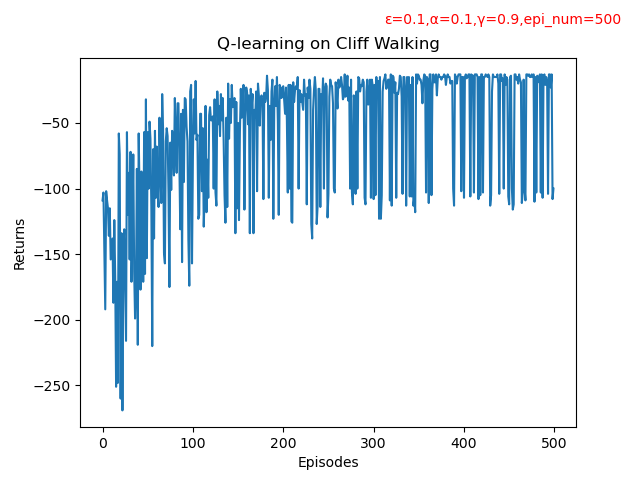
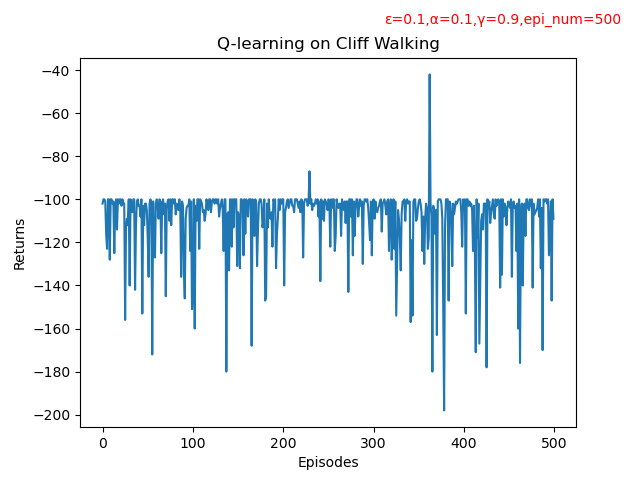
Offline Q-L finished, input switch to be done

diff --git a/Scripts/Hands-on-RL/TD-Learning/Q-learning.py b/Scripts/Hands-on-RL/TD-Learning/Q-learning.py
@@ -50,15 +50,10 @@ class Offline_Qlearning:
         TD_error = self.Q_stable[s_t0,a_t0] - (r_t1 + self.gamma*self.Q_stable[s_t1].max())
         self.Q_stable[s_t0,a_t0] -= self.alpha*TD_error
 
-    '''此函数根据当前的Q_table来决定在传入的状态下应采取什么行动
-    充当的是policy improvement的作用,但是代码实现中并没有用一个变量来跟踪全程中策略的变化
-    而仅仅是更新Q_table,最终策略也是根据最终Q_table的值来选择的deterministic策略'''
+    '''此函数根据Behavior policy来采取行动生成episode
+    这里采取的Behavior policy就是每个action等概率随机'''
     def take_action(self, state):
-        #if np.random.random() < self.nactions*self.epsilon/(self.nactions-1):
-        if np.random.random() < self.epsilon:
-            action = np.random.randint(self.nactions)
-        else:
-            action = np.argmax(self.Q_stable[state])
+        action = np.random.randint(self.nactions)
         return action
     
     '''此函数用于训练完后打印最终策略'''
@@ -82,8 +77,9 @@ if __name__ == "__main__":
     epsilon = 0.1
     alpha = 0.1
     gamma = 0.9
-    agent = Online_Qlearning(ncol, nrow, alpha, gamma, epsilon)
-    num_episodes = 5000 # 智能体在环境中运行的episode数量
+    # agent = Online_Qlearning(ncol, nrow, alpha, gamma, epsilon)
+    agent = Offline_Qlearning(ncol, nrow, alpha, gamma, epsilon)
+    num_episodes = 100000 # 智能体在环境中运行的episode数量
 
     return_list = [] # 记录每个episode的return
 
